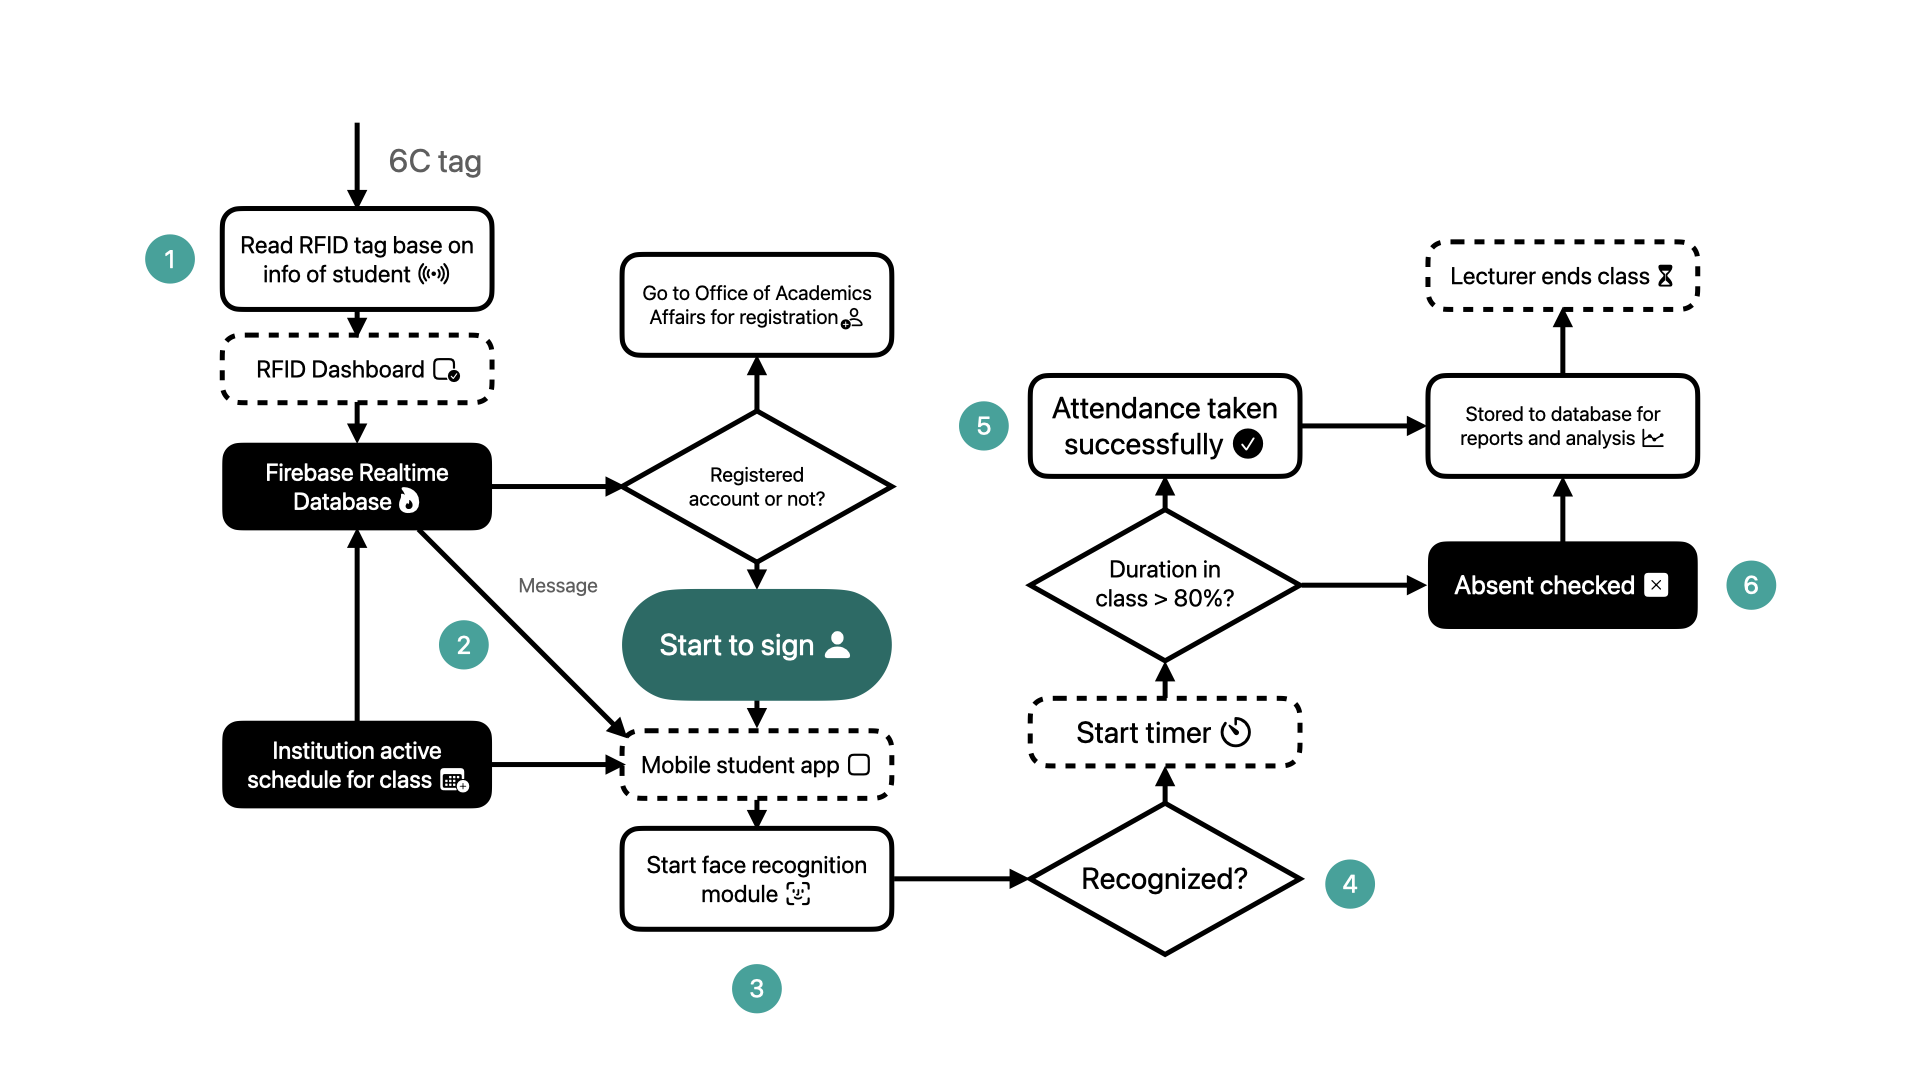
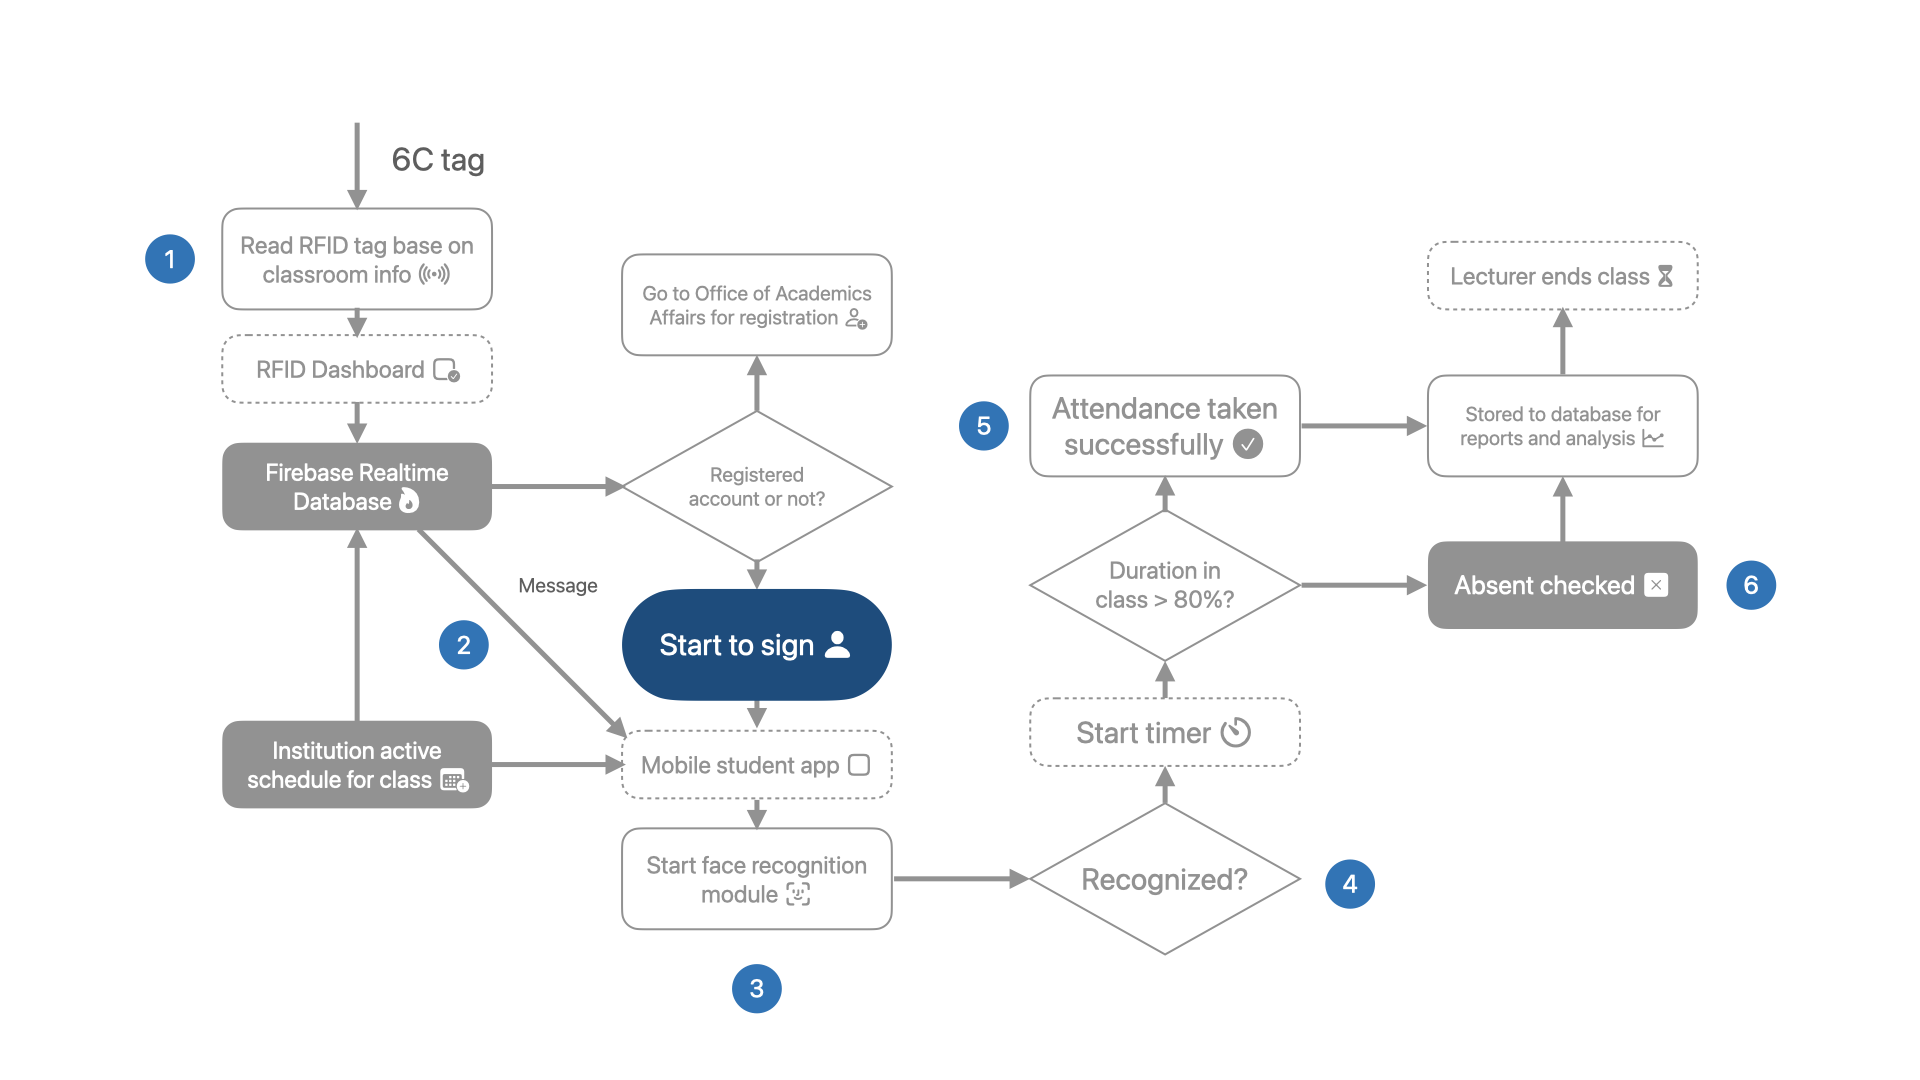
Redraw the figures on a transparent background

diff --git a/README.md b/README.md
@@ -1,34 +1,65 @@
-# AttendanceKit
+<br />
+<p align="center" width="100%">
+    <img width="15%" src="https://github.com/verny-tran/AttendanceKit/blob/main/Legacy/Assets/Icons/Cropped/AttendanceKit.png"> 
+</p>
+<h1 align="center"> AttendanceKit </h1>
+
 This is the official repository and **iOS** implementation of the role-based mobile applications for attendance checking using **facial recognition**, **UHF RFID** and **NFC** described in the papers ["**AttendanceKit: ...**"](https://doi.org/10.1007/978-981-19-8069-5_29) in [FDSE 2022](https://doi.org/10.1007/978-981-19-8069-5) and ["**To Wrap, or Not to Wrap: ...**"](https://doi.org/10.1007/s42979-023-02185-2) in [SN Computer Science • Volume 4, 729 (2023)](https://link.springer.com/journal/42979).
+
+This research was funded by Vietnam National University, Ho Chi Minh City (VNU-HCM) under grant number C2022-28-10 (level C). Any opinions, findings, conclusions or recommendations expressed in this material are those of the authors and should not be attributed to their employers or funding sources.
 
 ## Table of contents
 1. [Summary](#summary)
-2. [Compatibility](#compatibility)
-3. [Dependencies](#dependencies)
-4. [Pre-trained models](#models)
-5. [Reference](#reference)
+2. [News](#news)
+3. [Inspiration](#inspiration)
+4. [Compatibility](#compatibility)
+5. [Dependencies](#dependencies)
+6. [Pre-trained models](#models)
+7. [Training data](#training)
+8. [Performance](#performance)
+9. [Reference](#reference)
 
-<hr/>
+---
 
 ## Summary <a name="summary"></a>
+Traditional attendance monitoring has disadvantaged wasting time and resources. While an automatic attendance monitoring system enables students to check their attendance in offline classes. This paper ["**AttendanceKit: ...**"](https://doi.org/10.1007/978-981-19-8069-5_29), we propose an **AttendanceKit** set of applications to automatically check their attendance using real-time **Ultra-High Frequency (UHF) RFID** technology combined with **face recognition** in a suite of mobile applications for institution, lecturers, parents, and students. This can assist us overcome the disadvantages of manual inspection and get a very precise outcome. 
+
 <img align="middle" width="1000" src="https://github.com/verny-tran/AttendanceKit/blob/main/Resources/Figures/Attendance%20checking%20flow.png">
 
-Traditional attendance monitoring has disadvantaged wasting time and resources. While an automatic attendance monitoring system enables students to check their attendance in offline classes. This paper ["**AttendanceKit: ...**"](https://doi.org/10.1007/978-981-19-8069-5_29), we propose an **AttendanceKit** tool to check the automatic their attendance using real-time **Ultra-High Frequency (UHF) RFID** technology combined with **face recognition** in a suite of mobile applications for institution, lecturers, parents, and students. This can assist us overcome the disadvantages of manual inspection and get a very precise outcome. The backend system’s real-time updates will trigger automatic push notifications to the students’ mobile devices, prompting them to access the app and verify their attendance. They will also include the attendance monitoring features that allow the instructor to evaluate or determine the attendance status of each student. After receiving a request from a student, the application enables lecturers to manually monitor attendance in the event of unforeseen student concerns. In addition, our technique can automatically compile reports and analysis on each student’s learning status in each class and the class overall to provide the lecturers, parents, and the institution with the aggregate percentage of students who are committed to attending class. Our experiments show that some initial simulations of the system provide a more complete picture of how the new system operates and interacts, followed by an evaluation based on the learning outcomes of the class. Our system takes time and accuracy into account. In addition, our results present a complete performance study of the system with RFID and genuine mobile devices, as well as a novel machine learning platform that can be deployed on actual devices in reality for commercial. 
+The backend system’s real-time updates will trigger automatic push notifications to the students’ mobile devices, prompting them to access the app and verify their attendance. They will also include the attendance monitoring features that allow the instructor to evaluate or determine the attendance status of each student. After receiving a request from a student, the application enables lecturers to manually monitor attendance in the event of unforeseen student concerns. In addition, our technique can automatically compile reports and analysis on each student’s learning status in each class and the class overall to provide the lecturers, parents, and the institution with the aggregate percentage of students who are committed to attending class. Our experiments show that some initial simulations of the system provide a more complete picture of how the new system operates and interacts, followed by an evaluation based on the learning outcomes of the class. Our system takes time and accuracy into account. In addition, our results present a complete performance study of the system with RFID and genuine mobile devices, as well as a novel machine learning platform that can be deployed on actual devices in reality for commercial. 
 
 <img align="middle" width="1000" src="https://github.com/verny-tran/AttendanceKit/blob/main/Resources/Figures/Face%20recognition%20flow.png">
 
 And also in the paper ["**To Wrap, or Not to Wrap: ...**"](https://doi.org/10.1007/s42979-023-02185-2), we will examine the differences in the implementation approaches of a face recognition model on actual mobile devices (iOS and Android), as well as its performance. Specifically, we will look at the discrepancies between these two categories. In particular, we will investigate the ways in which these distinctions influence the precision of face recognition predictions as well as the amount of work that is required of devices in order for them to use a machine learning model, examine the advantages and disadvantages of the model encoding approach that is shared by the **TensorFlow** and **Core ML** frameworks, as well as how it helps to the overall success of the **AttendanceKit** system.
 
 __Contribution of this work__
-- A set of macOS and iOS role-based usable and deployable applications, which is very new because few researchers such as firebase realtime database, mobile app or institutions can develop or try to implement anything on Apple platforms previously due to the difficulty of hardware dependency and its exclusivity, because iOS is the second major mobile operating system, this means a great deal, and the Android version will be much easier to develop. The algorithm is then fed a series of **5-second-long videos** containing the faces of students. A collection of student faces is compared with the image captured by the camera on the mobile device, and attendance is recorded if the two IDs matched, stored ID via vectors in the database after trained and current ID via mobile app.
-- Utilizing the information system described, we continue to assess the performance of the learning outcomes to illustrate the utility of automatic RFID in improving the quality of learning. RFID tags and mobile device’s camera are combined to reach our current target of teaching or security-based facial. We leverage Apple’s native **ARKit** framework to identify and match a 3D grid mask on the student’s face, as well as a Convolution Neural Network (CNN) **TensorFlow's** **FaceNet** implementation model, converted to **Core ML** `.mlmodel` format prior. The timing and precision of our system are then determined.
+- A set of **macOS** and **iOS** role-based usable and deployable applications, which is very new because few researchers such as firebase realtime database, mobile app or institutions can develop or try to implement anything on Apple platforms previously due to the difficulty of hardware dependency and its exclusivity. The algorithm is then fed a series of **5-second-long videos** containing the faces of students. A collection of student faces is compared with the image captured by the camera on the mobile device, and attendance is recorded if the two IDs matched, stored ID via vectors in the database after trained and current ID via mobile app.
+- Utilizing the information system described, we continue to assess the performance of the learning outcomes to illustrate the utility of automatic RFID in improving the quality of learning. RFID tags and mobile device’s camera are combined to reach our current target of teaching or security-based facial. We leverage a Convolution Neural Network (CNN) **FaceNet** model, implemented in **TensorFlow's** and converted to **Core ML** `.mlmodel` format prior. The timing and precision of our system are then determined.
 - By comparing the analysis on the two mobile platforms, we can determine the benefits and drawbacks of each model implementation method (**native framework**, **web API**, **model wrapping**, or **model converting**) and have a clear picture of which strategy to employ for similar systems that also include machine learning models on mobile applications.
 
+## News <a name="news"></a>
+| Date       | Update |
+|------------|--------|
+| 04.12.2023 | The project [**C2022-28-10:** "Face recognition enhancement utilizing on-device machine learning"](https://ord.hcmiu.edu.vn/homepage/view/content?nid=129) (level C) has been approved by the committee from Vietnam National University, Ho Chi Minh City (VNU-HCM). |
+| 25.09.2023 | The paper ["**To Wrap, or Not to Wrap: ...**"](https://doi.org/10.1007/s42979-023-02185-2) has been published. |
+| 30.07.2023 | The project titled ["Developing a federated learning algorithm for autonomous attendance systems based on camera and long-range RFID"](https://ord.hcmiu.edu.vn/homepage/view/index) (level B) has been submitted to request a grant from Vietnam National University, Ho Chi Minh City (VNU-HCM). |
+| 13.07.2023 | The paper ["**To Wrap, or Not to Wrap: ...**"](https://doi.org/10.1007/s42979-023-02185-2) has been accepted. |
+| 24.04.2023 | The paper ["**To Wrap, or Not to Wrap: ...**"](https://doi.org/10.1007/s42979-023-02185-2) has been submitted. |
+| 03.01.2023 | The paper ["**AttendanceKit: ...**"](https://doi.org/10.1007/978-981-19-8069-5_29) has been selected for publication in a special issue of [SNCS](https://link.springer.com/journal/42979) journal. |
+| 20.11.2022 | The paper ["**AttendanceKit: ...**"](https://doi.org/10.1007/978-981-19-8069-5_29) has been published. |
+| 04.10.2022 | The paper ["**AttendanceKit: ...**"](https://doi.org/10.1007/978-981-19-8069-5_29) has been accepted. |
+| 01.08.2022 | The paper ["**AttendanceKit: ...**"](https://doi.org/10.1007/978-981-19-8069-5_29) has been submitted. |
+
+## Inspiration <a name="inspiration"></a>
+The face recognition module of these applications is heavily inspired by the project [**enVision**](https://github.com/IDLabs-Gate/enVision) from [ID Labs](https://github.com/IDLabs-Gate).
+
 ## Compatibility <a name="compatibility"></a>
-The code is tested using **Tensorflow** `r1.7` and **Core ML** `3.0`  under **iOS** `15.0` with **Swift** `5.1`, **Java** `16.0` and **Python** `3.5`. The project must be built with **Xcode** on a **macOS** device.
+The code is tested using **TensorFlow** `1.7` and **Core ML** `3.0`  under **iOS** `15.0` with **Swift** `5.1`, **Java** `16.0` and **Python** `3.5`. 
+
+__IMPORTANT:__ The project must be built with **Xcode** on a **macOS** device. While the **RFID Dashboard** desktop middleware app can be built with **IntelliJ**.
 
 ## Dependencies <a name="dependencies"></a>
-This project is written in **Swift**, **Java** and **Python**. Dependencies include:
+This project is written in **Swift**, **Objective-C**, **Objective-C++**, **Java** and **Python**. Dependencies include:
 
 ### CocoaPods
 ```ruby
@@ -82,17 +113,33 @@ If you don't have **CocoaPods** installed, install it by using this command:
 sudo gem install cocoapods
 ```
 
+### Gradle
+The macOS **RFID Dashboard** application uses **Gradle** as its project build automation tool. Refresh the dependencies of the `dashboard.idea` project by running the following command:
+
+```bash
+gradle --refresh-dependencies clean build
+```
+
 ## Pre-trained models <a name="models"></a>
 | Model name      | LFW accuracy | Training dataset | Architecture |
 |-----------------|--------------|------------------|-------------|
-| [facenet.mlmodel](https://github.com/verny-tran/AttendanceKit/blob/main/Resources/Models/facenet.pb) | 0.9905        | VGGFace2    | [Inception ResNet v1](https://github.com/davidsandberg/facenet/blob/master/src/models/inception_resnet_v1.py) |
+| [facenet.mlmodel](https://github.com/verny-tran/AttendanceKit/blob/main/Resources/Models/facenet.mlmodel) | 0.9945        | VGGFace2    | [Inception ResNet v1](https://github.com/davidsandberg/facenet/blob/master/src/models/inception_resnet_v1.py) |
 | [facenet.pb](https://github.com/verny-tran/AttendanceKit/blob/main/Resources/Models/facenet.pb) | 0.9965        | VGGFace2      | [Inception ResNet v1](https://github.com/davidsandberg/facenet/blob/master/src/models/inception_resnet_v1.py) |
-| [facenet.h5](https://github.com/verny-tran/AttendanceKit/blob/main/Resources/Models/facenet.pb) | 0.9945        | VGGFace2      | [Inception ResNet v1](https://github.com/davidsandberg/facenet/blob/master/src/models/inception_resnet_v1.py) |
+| [facenet.h5](https://github.com/verny-tran/AttendanceKit/blob/main/Resources/Models/facenet.h5) | 0.9905        | CASIA-WebFace      | [Inception ResNet v1](https://github.com/davidsandberg/facenet/blob/master/src/models/inception_resnet_v1.py) |
 
-__NOTE:__ If you use any of the models, please do not forget to give proper credit to me and those providing the training dataset as well.
+__NOTE:__ If you use any of the models, please do not forget to give proper credit to me, the [FaceNet](https://github.com/davidsandberg/facenet) authors and those providing the training dataset as well.
+
+## Training data <a name="training"></a>
+The [CASIA-WebFace](http://www.cbsr.ia.ac.cn/english/CASIA-WebFace-Database.html) dataset has been used for training. This training set consists of total of **453.453** images over **10.575** identities after face detection. Some performance improvement has been seen if the dataset has been filtered before training. Some more information about how this was done will come later.
+The best performing model has been trained on the [VGGFace2](https://www.robots.ox.ac.uk/~vgg/data/vgg_face2/) dataset consisting of ~**3.3M** faces and ~**9.000** classes.
+
+## Performance <a name="performance"></a>
+The accuracy on LFW for the model [facenet.pb](https://github.com/verny-tran/AttendanceKit/blob/main/Resources/Models/facenet.pb) is `0.99650±0.00252`. A description of how to run the test can be found on the page [Validate on LFW](https://github.com/davidsandberg/facenet/wiki/Validate-on-lfw). 
+
+__NOTE:__ The input images to the model need to be standardized using fixed image standardization (use the option `--use_fixed_image_standardization` when running e.g. `validate_on_lfw.py`).
 
 ## Reference <a name="reference"></a>
-To cite my papers, please use these BibTex:
+To cite the papers, please use these BibTex:
 ```bibtex
 @inproceedings{tran2022attendancekit,
   title={AttendanceKit: a set of role-based mobile applications for automatic attendance checking with UHF RFID using realtime firebase and face recognition},
